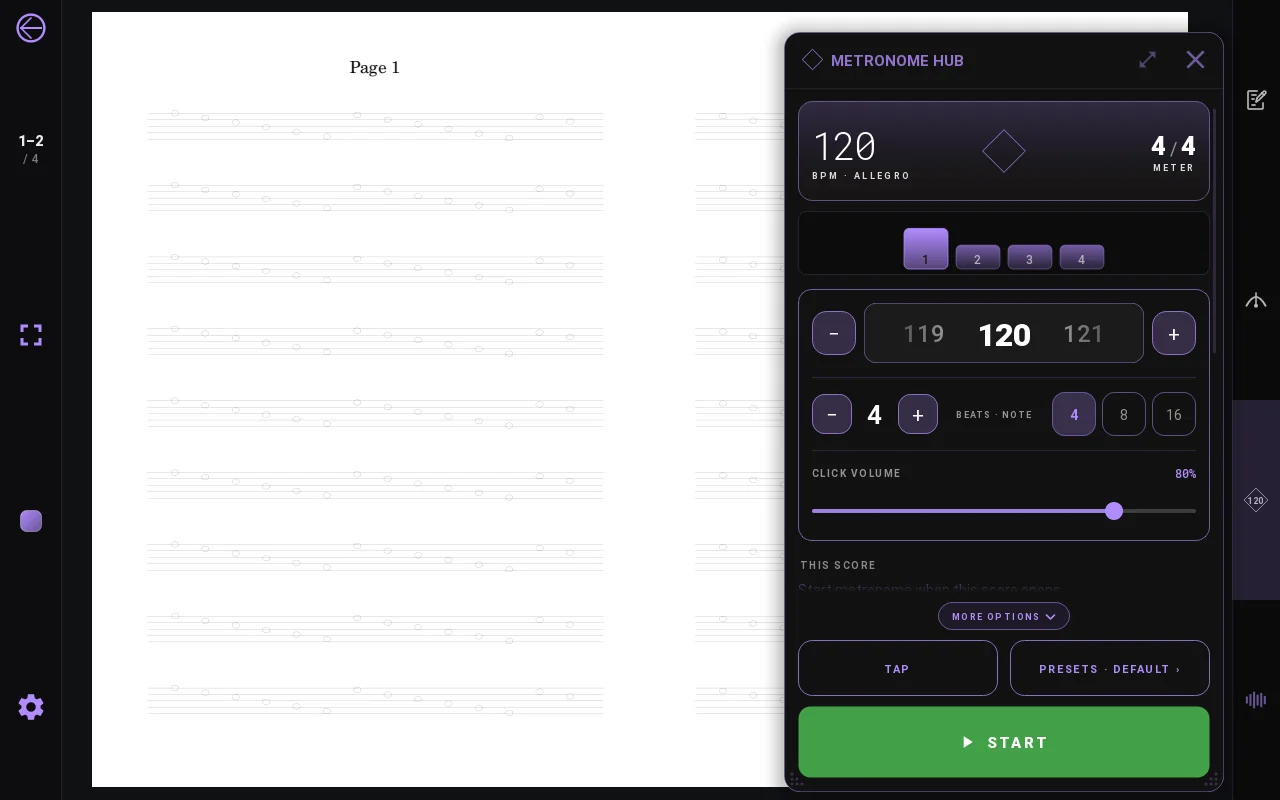
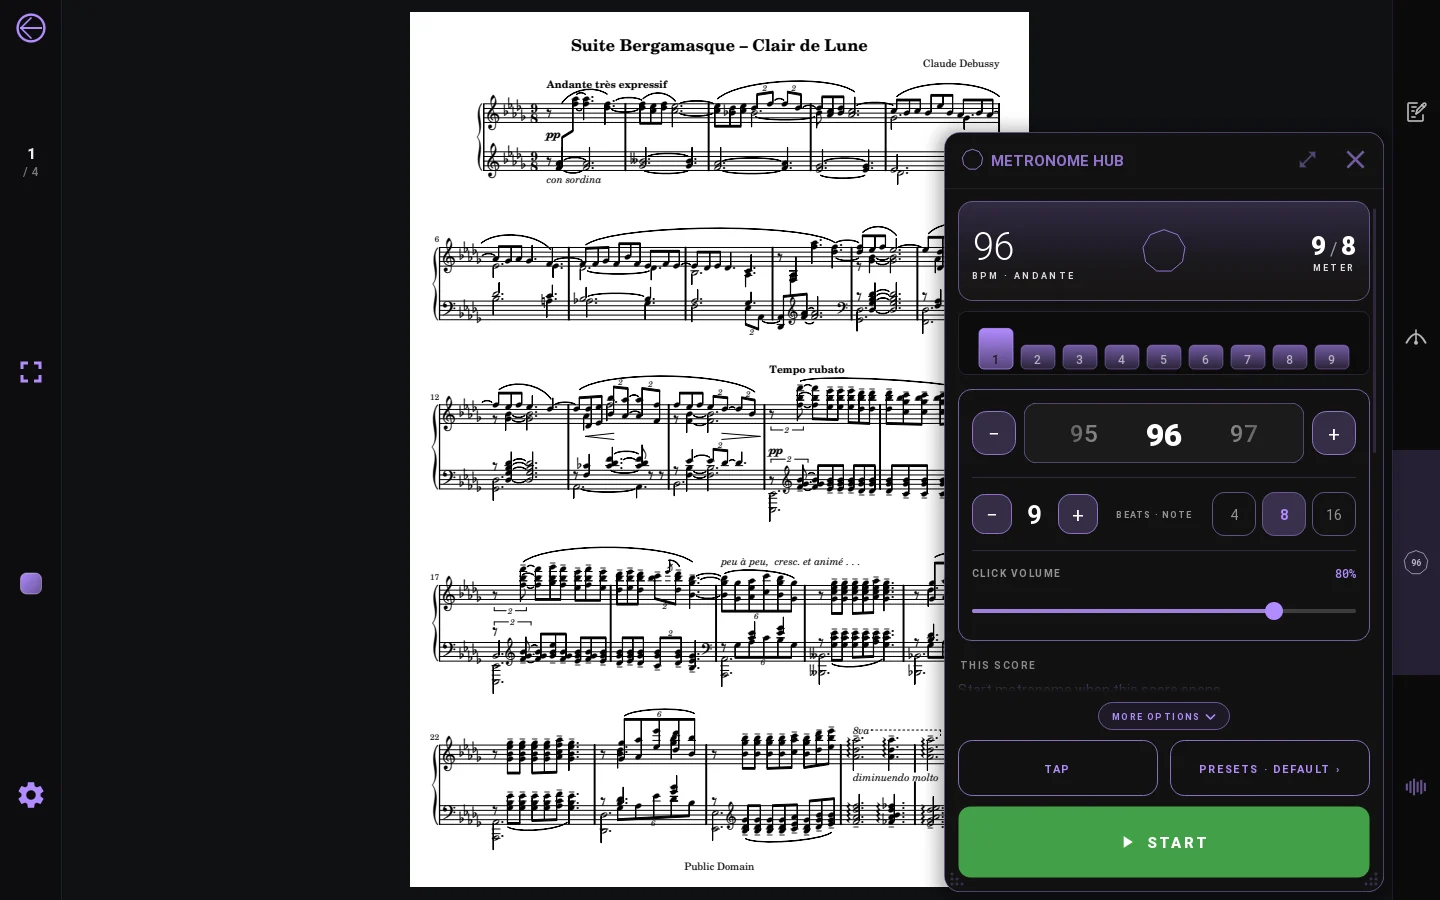
ose(scores): screenshots with real public-domain scores (Mutopia), annotation shot, credit line

diff --git a/ose/scores.html b/ose/scores.html
@@ -108,7 +108,7 @@
 
       <div class="reveal">
         <figure class="shot-frame">
-          <img src="assets/img/scores/reader-desktop.webp" width="1280" height="800" alt="Outhentic Scores reader showing two pages of a score side by side, with the page counter and tools in narrow side bars." />
+          <img src="assets/img/scores/reader-desktop.webp" width="1440" height="900" alt="Outhentic Scores reader showing two pages of Beethoven’s Für Elise side by side, with the page counter and tools in narrow side bars." />
         </figure>
       </div>
     </div>
@@ -149,8 +149,8 @@
         <p>Your scores sit in one sortable library, with quick filters for favourites and recently opened scores. Group them into setlists for a concert or into collections for a book or a teacher.</p>
         <p>Search covers titles, composers and keys, and also the text inside your PDFs. Scanned pages are read with OCR, so a search for a tempo marking or a lyric line finds the page it is on.</p>
       </div>
-      <figure class="shot-frame shot-frame--square">
-        <img src="assets/img/scores/library-desktop.webp" width="800" height="800" loading="lazy" alt="The Outhentic Scores library: a list of scores with page count, key and composer, a search box, and tabs for Scores, Setlists, Collections and Composers." />
+      <figure class="shot-frame">
+        <img src="assets/img/scores/library-desktop.webp" width="1440" height="900" loading="lazy" alt="The Outhentic Scores library in cover view: nine piano pieces by Debussy, Satie, Beethoven, Bach, Chopin and Burgmüller with their first pages as covers, two marked as favourites, a search box, and sections for Scores, Setlists, Collections and Composers." />
       </figure>
     </section>
 
@@ -167,8 +167,8 @@
           <li><strong>Tap to turn:</strong> on a touch screen, tap the page to turn it.</li>
         </ul>
       </div>
-      <figure class="shot-frame shot-frame--square">
-        <img src="assets/img/scores/setlist-desktop.webp" width="800" height="800" loading="lazy" alt="A setlist called Friday concert with three numbered scores and a Start setlist button." />
+      <figure class="shot-frame">
+        <img src="assets/img/scores/setlist-desktop.webp" width="1440" height="900" loading="lazy" alt="A setlist called Sunday recital with five numbered scores, from Bach’s Prelude BWV 997 to Satie’s Gymnopédie No. 1, and a Start setlist button." />
       </figure>
     </section>
 
@@ -178,6 +178,9 @@
       <span class="eyebrow">Annotation</span>
       <h2 id="h-annotation">Write on the music.</h2>
       <p style="max-width: 720px;">Mark fingerings, breaths and cuts the way you would in pencil, with a pen, a finger or a mouse.</p>
+      <figure class="shot-frame" style="margin-top: 24px;">
+        <img src="assets/img/scores/annotation-desktop.webp" width="1440" height="900" loading="lazy" alt="Satie’s Gymnopédie No. 1 with markings: blue fingering numbers, a red circle around a forte, a breath mark, a highlighted bar and an mp dynamic stamp." />
+      </figure>
       <div class="cols-3" style="margin-top: 24px;">
         <div class="hub-card"><h3>Pen and touch</h3><p>Draw with a Windows pen or graphics tablet, or with a finger on a touch screen.</p></div>
         <div class="hub-card"><h3>Layers</h3><p>Keep markings on separate layers, for example one for your teacher's notes and one for your own.</p></div>
@@ -199,7 +202,7 @@
         </ul>
       </div>
       <figure class="shot-frame">
-        <img src="assets/img/scores/metronome-desktop.webp" width="1280" height="800" loading="lazy" alt="The metronome panel open over a score, showing 120 BPM in 4/4, beat accents, tempo controls and a Start button." />
+        <img src="assets/img/scores/metronome-desktop.webp" width="1440" height="900" loading="lazy" alt="The metronome panel open over Debussy’s Clair de lune, set to 96 BPM in 9/8, with beat accents, tempo controls and a Start button." />
       </figure>
     </section>
 
@@ -209,7 +212,7 @@
         <p>On a Windows tablet in portrait the reader fills the screen and the tools move to a bar at the bottom. The tuner can stay on while you read, with the note shown in the tools bar.</p>
       </div>
       <figure class="shot-frame shot-frame--tablet">
-        <img src="assets/img/scores/tuner-tablet.webp" width="800" height="1280" loading="lazy" alt="Outhentic Scores in portrait on a tablet, with the practice panel showing the tuner over a score." />
+        <img src="assets/img/scores/tuner-tablet.webp" width="800" height="1280" loading="lazy" alt="Outhentic Scores in portrait on a tablet, with the practice panel showing the tuner reading A at 441.2 Hz over Bach’s Prelude BWV 997." />
       </figure>
     </div>
 
@@ -265,6 +268,7 @@
       <a class="hub-card" href="terms.html"><h3>Terms of use →</h3><p>The rules for using our apps.</p></a>
       <a class="hub-card" href="help.html"><h3>Help &amp; FAQ →</h3><p>Questions and how to reach us.</p></a>
     </div>
+    <p style="margin: 28px 0 0;"><small>Sheet music in screenshots: public-domain editions from the <a href="https://www.mutopiaproject.org/" rel="noopener">Mutopia Project</a>.</small></p>
   </div>
 </section>
 

diff --git a/ose/index.html b/ose/index.html
@@ -373,7 +373,7 @@
           <span class="btn btn--ghost">See Outhentic Scores <span class="arrow">→</span></span>
         </div>
         <figure class="shot-frame">
-          <img src="assets/img/scores/reader-desktop.webp" width="1280" height="800" loading="lazy" alt="Outhentic Scores reader showing two pages of a score side by side." />
+          <img src="assets/img/scores/reader-desktop.webp" width="1440" height="900" loading="lazy" alt="Outhentic Scores reader showing two pages of Beethoven’s Für Elise side by side." />
         </figure>
       </div>
     </a>
